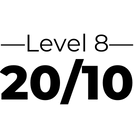
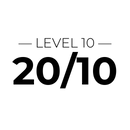
new changes

Changed region(s): [[0.0, 0.2154, 1.0, 0.7692]]

diff --git a/finalTrial.py b/finalTrial.py
@@ -337,16 +337,16 @@ def levelselect():
     frmBot = Frame(levselScreen, width=width, height=(height - 45))
     frmBot.pack(fill=X, pady=(5, 15))
 
-    one = PhotoImage(file=r"Buttons\20_70.png")
-    two = PhotoImage(file=r"Buttons\20_60.png")
-    thr = PhotoImage(file=r"Buttons\20_50.png")
-    fou = PhotoImage(file=r"Buttons\20_40.png")
-    fiv = PhotoImage(file=r"Buttons\20_30.png")
-    six = PhotoImage(file=r"Buttons\20_20.png")
-    sev = PhotoImage(file=r"Buttons\20_15.png")
-    eig = PhotoImage(file=r"Buttons\20_10.png")
-    nin = PhotoImage(file=r"Buttons\20_7.png")
-    ten = PhotoImage(file=r"Buttons\20_4.png")
+    one = PhotoImage(file=r"Buttons\20_200.png")
+    two = PhotoImage(file=r"Buttons\20_120.png")
+    thr = PhotoImage(file=r"Buttons\20_80.png")
+    fou = PhotoImage(file=r"Buttons\20_60.png")
+    fiv = PhotoImage(file=r"Buttons\20_40.png")
+    six = PhotoImage(file=r"Buttons\20_30.png")
+    sev = PhotoImage(file=r"Buttons\20_20.png")
+    eig = PhotoImage(file=r"Buttons\20_15.png")
+    nin = PhotoImage(file=r"Buttons\20_13.png")
+    ten = PhotoImage(file=r"Buttons\20_10.png")
 
     btnLevel1 = ttk.Button(
         frmTop, text="Level 1", image=one, command=lambda: eyetest("one")
@@ -727,7 +727,7 @@ def level_one():  # Define self as global variable
         # Iterate through the list of random_letters
         for i in range(len(random_one)):
             letters = Label(
-                letter_frame, text=random_one[i], font=("Courier", 152, "bold")
+                letter_frame, text=random_one[i], font=("Courier", 251, "bold")
             )
 
             letters.pack(side=LEFT, expand=True)
@@ -974,7 +974,7 @@ def level_two():  # Define self as global variable
         # Iterate through the list of random_letters
         for i in range(len(random_two)):
             letters = Label(
-                letter_frame, text=random_two[i], font=("Courier", 130, "bold")
+                letter_frame, text=random_two[i], font=("Courier", 151, "bold")
             )
 
             letters.pack(side=LEFT, expand=True)
@@ -1231,7 +1231,7 @@ def level_three():  # Define self as global variable
         # Iterate through the list of random_letters
         for i in range(len(random_thr)):
             letters = Label(
-                letter_frame, text=random_thr[i], font=("Courier", 108, "bold")
+                letter_frame, text=random_thr[i], font=("Courier", 101, "bold")
             )
 
             letters.pack(side=LEFT, expand=True)
@@ -1482,7 +1482,7 @@ def level_four():  # Define self as global variable
         # Iterate through the list of random_letters
         for i in range(len(random_fou)):
             letters = Label(
-                letter_frame, text=random_fou[i], font=("Courier", 87, "bold")
+                letter_frame, text=random_fou[i], font=("Courier", 75, "bold")
             )
 
             letters.pack(side=LEFT, expand=True)
@@ -1729,7 +1729,7 @@ def level_five():  # Define self as global variable
         # Iterate through the list of random_letters
         for i in range(len(random_five)):
             letters = Label(
-                letter_frame, text=random_five[i], font=("Courier", 65, "bold")
+                letter_frame, text=random_five[i], font=("Courier", 50, "bold")
             )
 
             letters.pack(side=LEFT, expand=True)
@@ -1978,7 +1978,7 @@ def level_six():  # Define self as global variable
         # Iterate through the list of random_letters
         for i in range(len(random_six)):
             letters = Label(
-                letter_frame, text=random_six[i], font=("Courier", 43, "bold")
+                letter_frame, text=random_six[i], font=("Courier", 38, "bold")
             )
 
             letters.pack(side=LEFT, expand=True)
@@ -2228,7 +2228,7 @@ def level_seven():  # Define self as global variable
             letters = Label(
                 letter_frame,
                 text=random_seven[i],
-                font=("Courier", 33, "bold"),
+                font=("Courier", 25, "bold"),
             )
 
             letters.pack(side=LEFT, expand=True)
@@ -2481,7 +2481,7 @@ def level_eight():  # Define self as global variable
             letters = Label(
                 letter_frame,
                 text=random_eight[i],
-                font=("Courier", 21, "bold"),
+                font=("Courier", 19, "bold"),
             )
 
             letters.pack(side=LEFT, expand=True)
@@ -2728,7 +2728,7 @@ def level_nine():  # Define self as global variable
         # Iterate through the list of random_letters
         for i in range(len(random_nine)):
             letters = Label(
-                letter_frame, text=random_nine[i], font=("Courier", 15, "bold")
+                letter_frame, text=random_nine[i], font=("Courier", 16, "bold")
             )
 
             letters.pack(side=LEFT, expand=True)
@@ -2979,7 +2979,7 @@ def level_ten():  # Define self as global variable
         # Iterate through the list of random_letters
         for i in range(len(random_ten)):
             letters = Label(
-                letter_frame, text=random_ten[i], font=("Courier", 9, "bold")
+                letter_frame, text=random_ten[i], font=("Courier", 13, "bold")
             )
 
             letters.pack(side=LEFT, expand=True)
